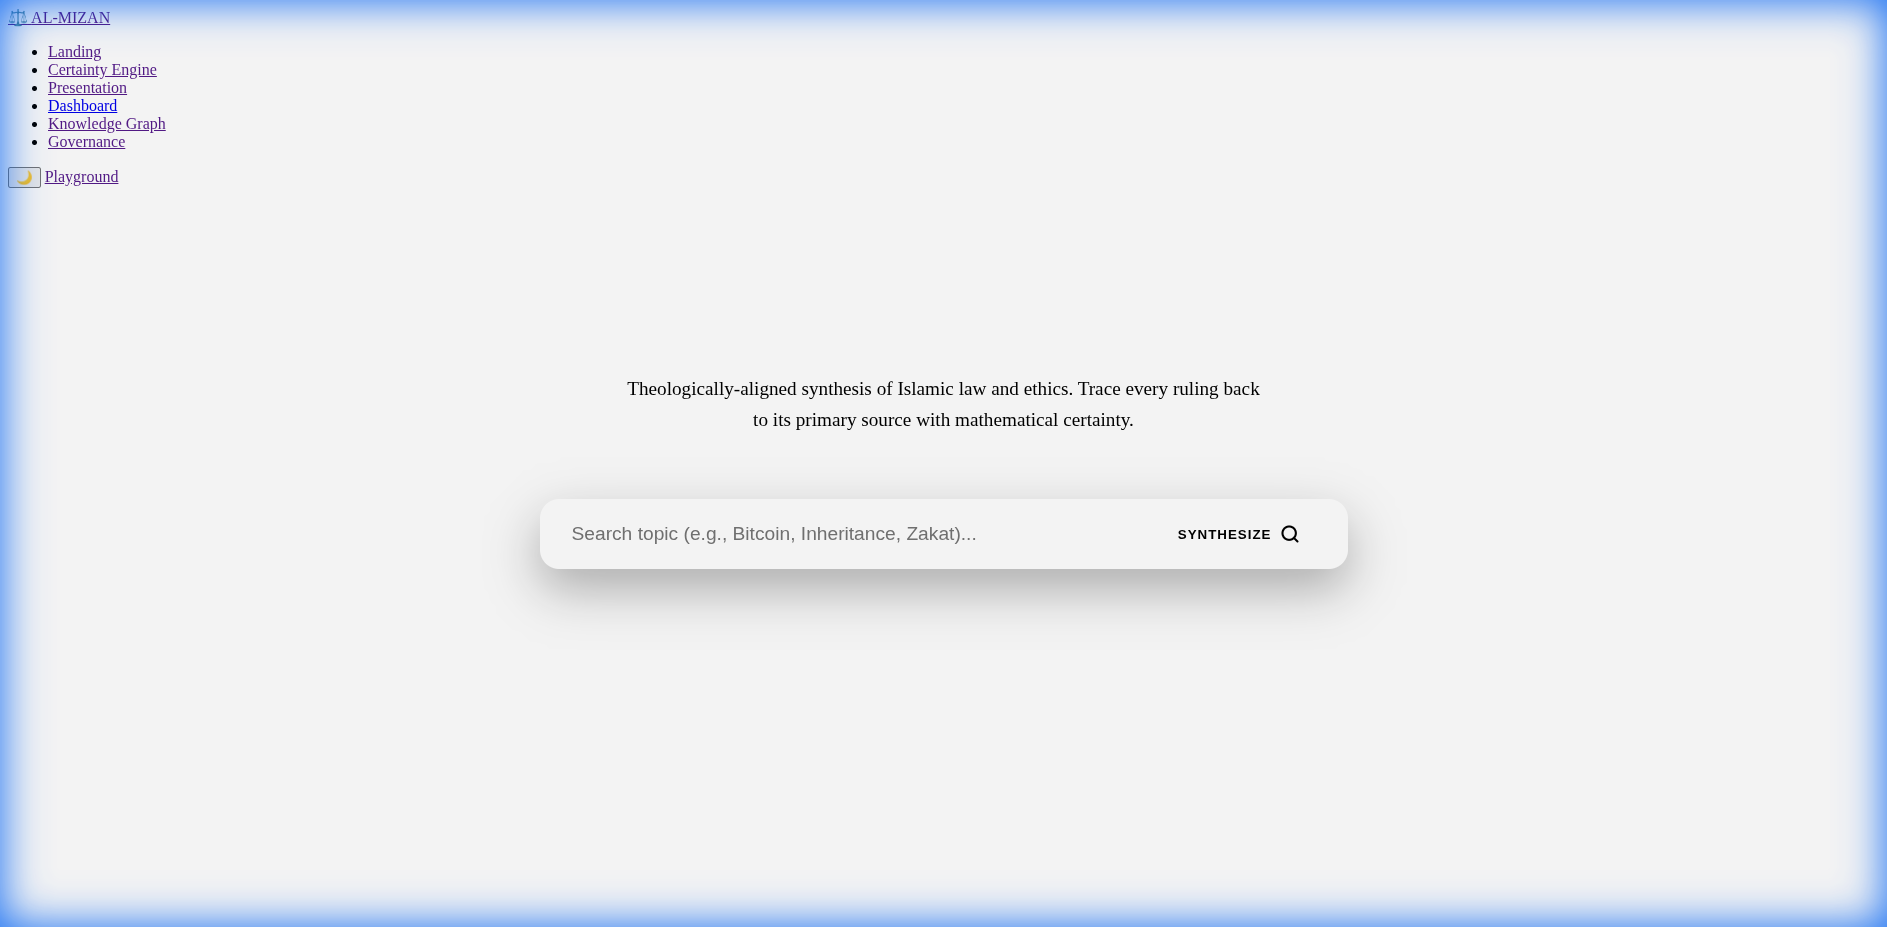
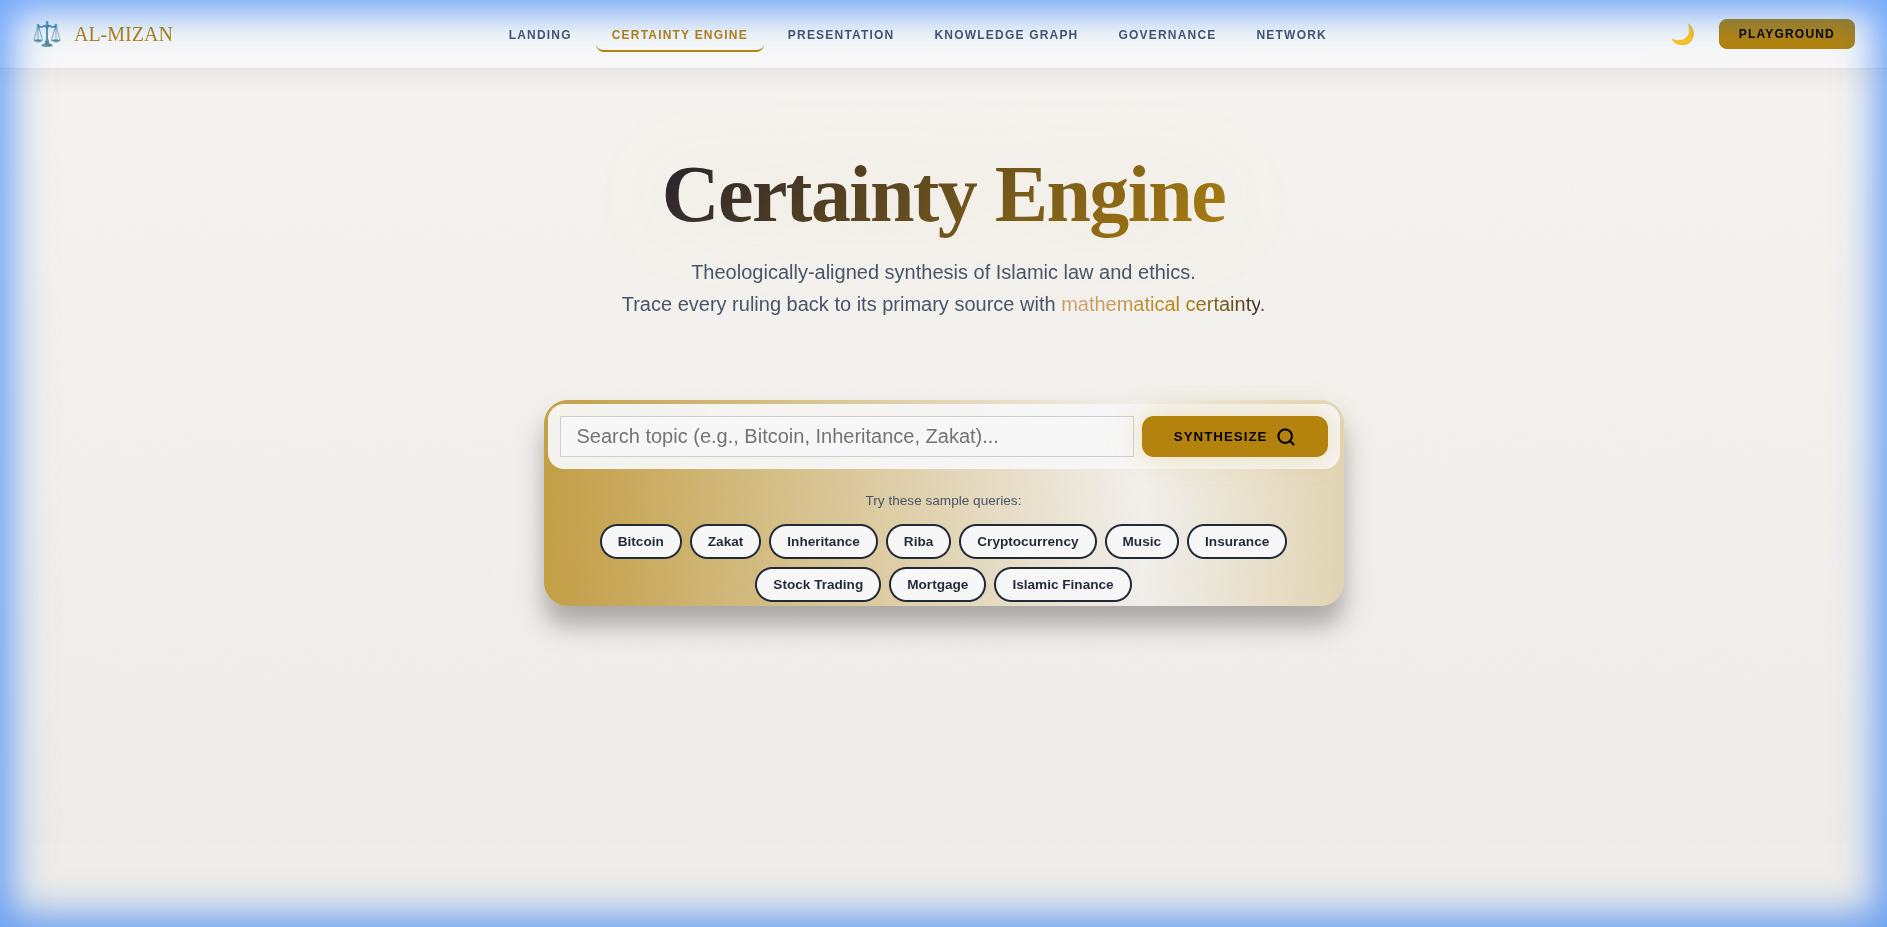
fyp cgange

diff --git a/docs/FYP 1 Report.md b/docs/FYP 1 Report.md
@@ -678,13 +678,31 @@ SELECT ->references->hadith FROM verse:1_1;
 
 ### **4.3.3 User Interface Screenshots**
 
-*[Note: Screenshots to be inserted during final formatting]*
+The prototype includes multiple functional interfaces. Figures 8-10 demonstrate the implemented UI components.
+
+**Figure 8: Certainty Engine — Search Interface**
+
+![Certainty Engine Interface](images/screenshot_certainty_engine.png)
+
+*The main search interface allows researchers to query theological topics with the tagline "Trace every ruling back to its primary source with mathematical certainty."*
+
+**Figure 9: Knowledge Graph Playground — Neuro-Symbolic Visualization**
+
+![Knowledge Graph Playground](images/screenshot_graph_playground.png)
+
+*The Playground interface displays the Cytoscape.js-powered graph showing Quranic knowledge tiers (Thabit/Wahyu nodes) with interactive exploration capabilities.*
+
+**Figure 10: Presentation Landing — Project Overview**
+
+![Presentation Page](images/screenshot_presentation.png)
+
+*The presentation mode showcases the project theme: "Architecting the Unity of Knowledge — From Epistemological Fragmentation to Digital Ontology."*
 
 The prototype UI includes:
-1. **Knowledge Graph Explorer** — Interactive Cytoscape.js visualization
-2. **Verse Detail View** — Morphological breakdown with root links
-3. **Query Playground** — Direct SurQL query interface for researchers
-4. **API Documentation** — Auto-generated OpenAPI spec
+1. **Certainty Engine** — Theological query synthesis with source verification
+2. **Knowledge Graph Playground** — Interactive Cytoscape.js visualization
+3. **Presentation Mode** — Showcase-ready project overview
+4. **API Playground** — Direct SurQL query interface for researchers
 
 ## **4.4 Objective Achievement Status**
 

diff --git a/docs/technical-writing/FYP_DEEP_AUDIT.md b/docs/technical-writing/FYP_DEEP_AUDIT.md
@@ -237,7 +237,7 @@ Examiners scan abstracts. Add keywords line:
 | **P1** | Expand Conclusion (achievements, future work) | High | ✅ Done (FYP 2 Roadmap) |
 | **P2** | Define Fitna Defense Protocol formally | Medium | ✅ Done (concept + query example) |
 | **P2** | Expand Division of Work table | Medium | ✅ Done (Table 3) |
-| **P2** | Add screenshots/figures | Medium | 🟡 Placeholder added |
+| **P2** | Add screenshots/figures | Medium | ✅ Done (3 high-quality screenshots added) |
 | **P3** | Number figures, add keywords | Polish | ✅ Done |
 
 ---
